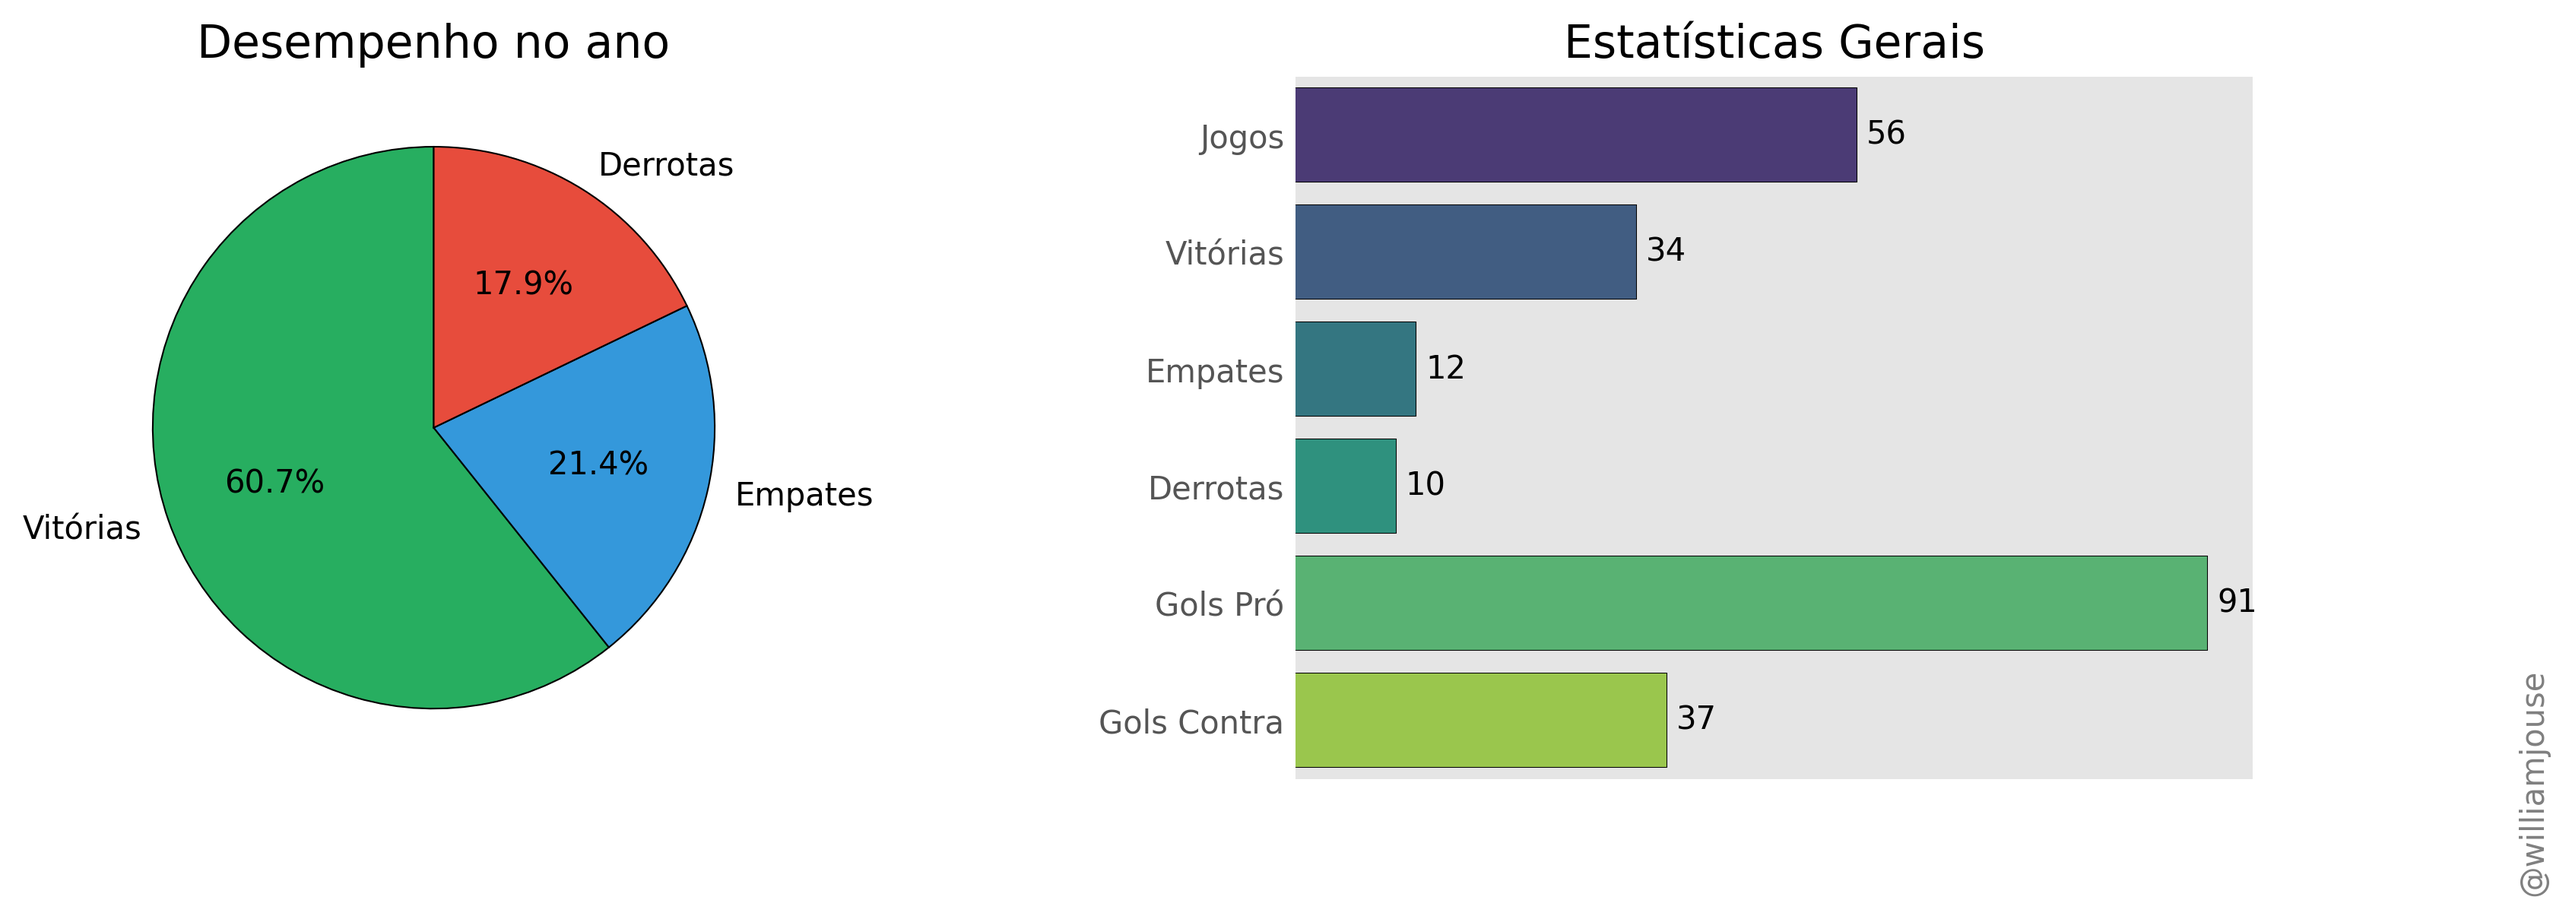
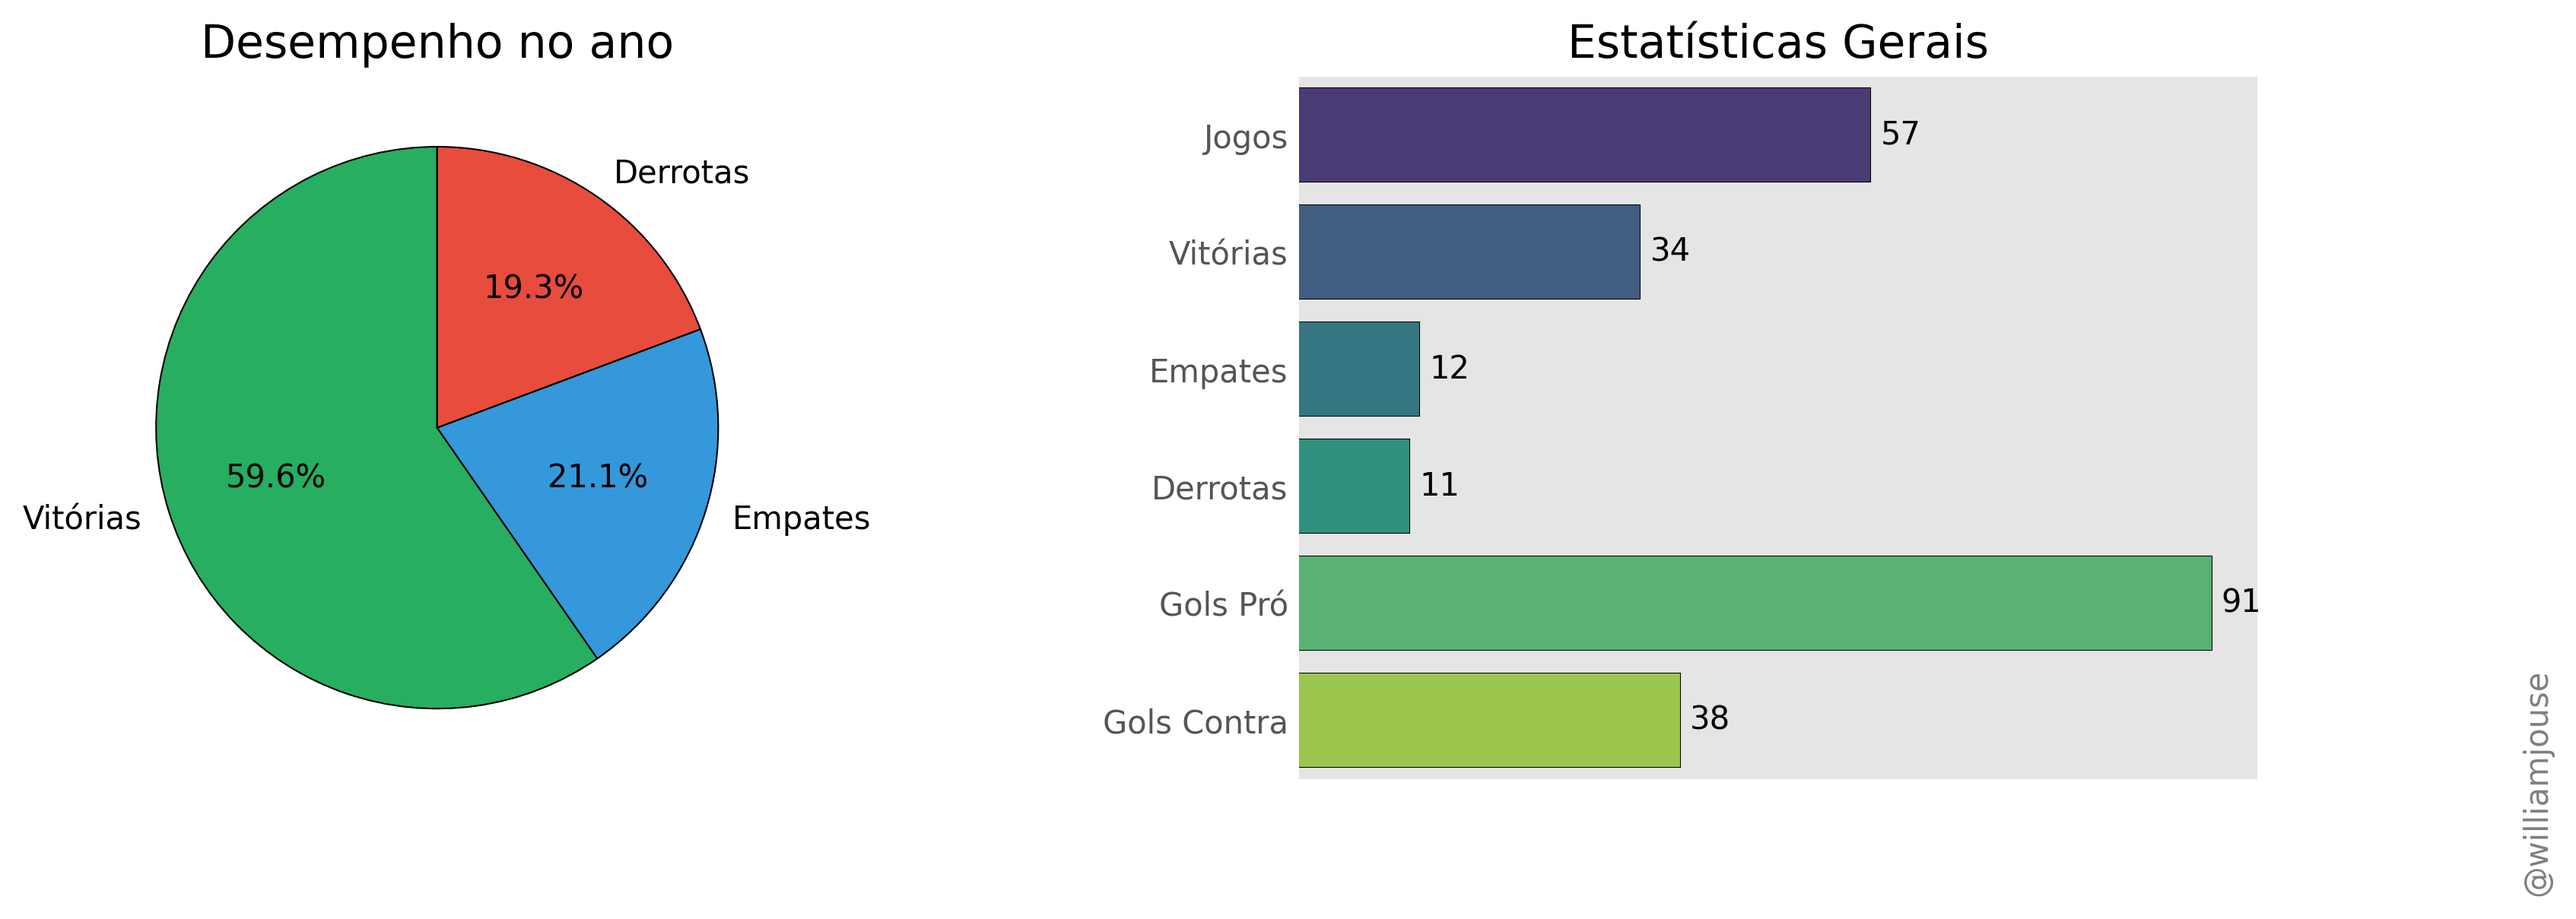
update 09.20

diff --git a/README.md b/README.md
@@ -30,19 +30,19 @@ E [Plotting](https://github.com/williamjouse/jogos-Flamengo-2024/blob/main/noteb
 
 
 ```
-Jogos: 56
+Jogos: 57
 Vitórias: 34
 Empates: 12
-Derrotas: 10 
+Derrotas: 11 
 Gols pro: 91
-Gols contra: 37
-Saldo de gols: +54
-Gols/jogo: 1.62
-Gols sofridos/jogo: 0.66
+Gols contra: 38
+Saldo de gols: +53
+Gols/jogo: 1.6
+Gols sofridos/jogo: 0.67
 Jogos em que marcou: 47
 Jogos em que sofreu gol: 28 
-Aproveitamento: 67.86%
-Aproveitamento pontos: 114/168
+Aproveitamento: 66.67%
+Aproveitamento pontos: 114/171
 ```
 
 | Jogador           |   Gols |   Assistências |
